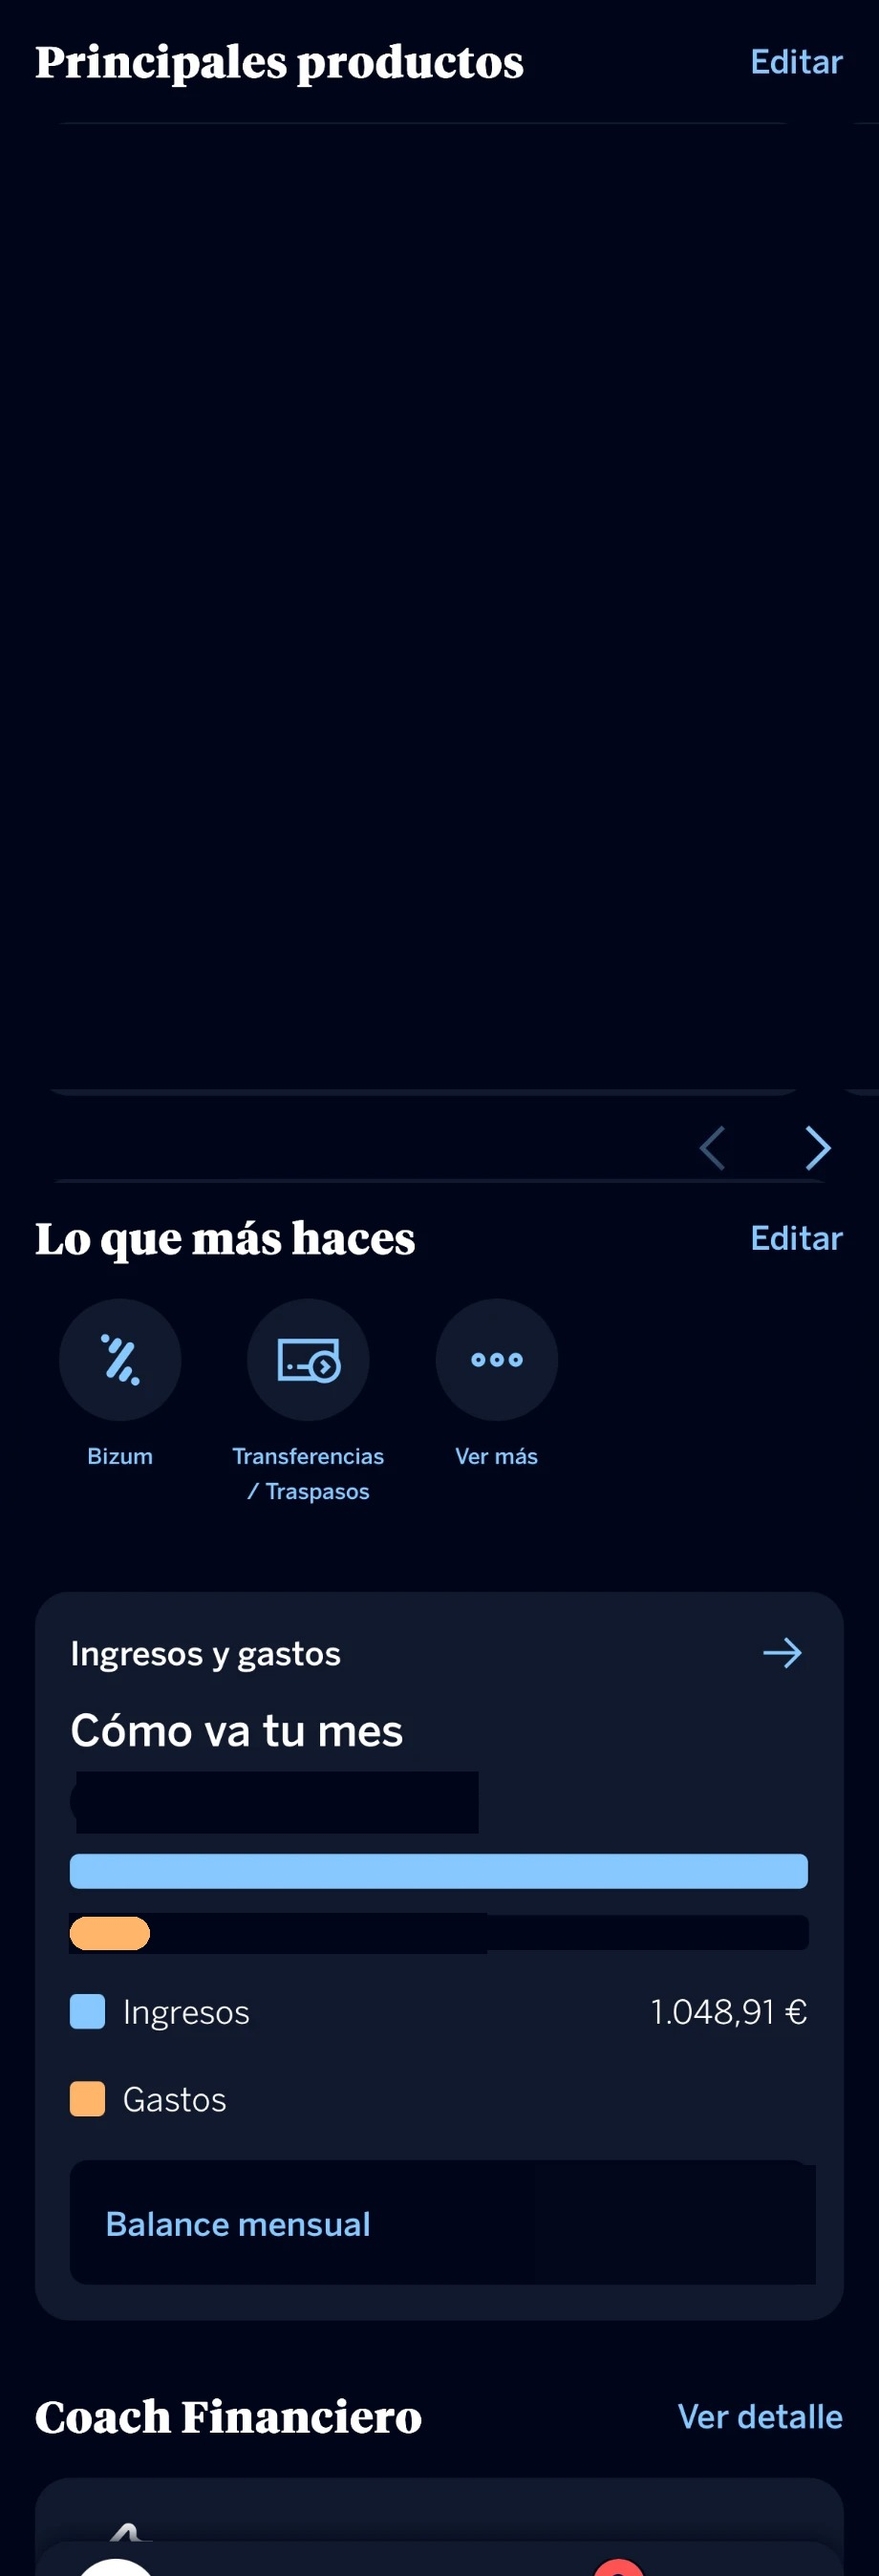
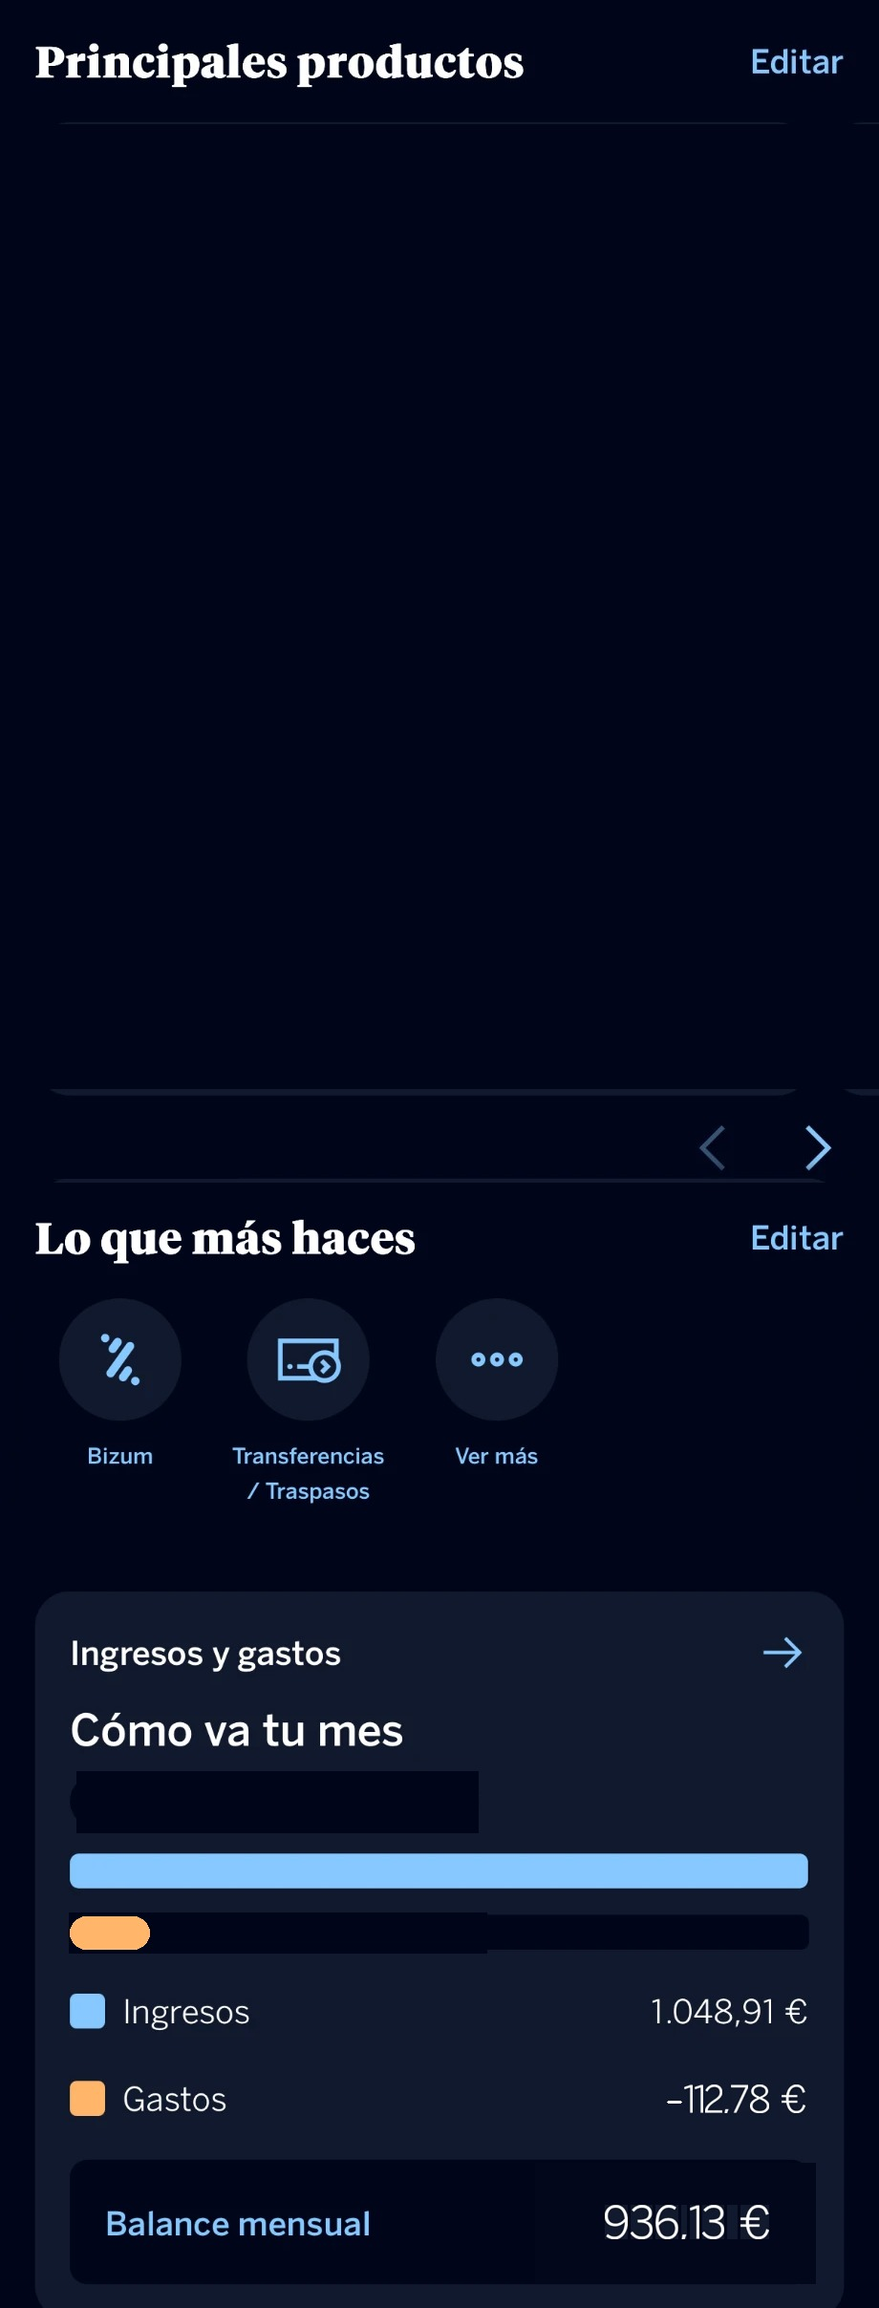
Quitar Coach; gastos/balance con digitos reales (tamano original); periodo limpio (v30)

diff --git a/style.css b/style.css
@@ -16,14 +16,14 @@ html, body {
 /* La foto original va en el fondo raíz. El tamaño y el desplazamiento exactos
    en píxeles los pone el script según la pantalla. */
 html {
-  background: #144866 url("bg.jpg?v=29") 0 0 / 100vw 100vh no-repeat;
+  background: #144866 url("bg.jpg?v=30") 0 0 / 100vw 100vh no-repeat;
 }
 
 /* Modo app nativa (?app=1): foto limpia a pantalla completa y nítida
    (dentro de la app de iOS no hay desenfoque, así que no hacen falta parches) */
 html.app {
   background-color: #022d5a;
-  background-image: url("bg-app.jpg?v=29");
+  background-image: url("bg-app.jpg?v=30");
 }
 html.app .edge {
   display: none;
@@ -337,7 +337,7 @@ body.sheet-open .stage { filter: blur(9px) brightness(0.45); }
   position: fixed;
   inset: 0;
   z-index: 20;
-  background: #0a1a2f url("bg-home.jpg?v=29") center top / 100% 100% no-repeat;
+  background: #0a1a2f url("bg-home.jpg?v=30") center top / 100% 100% no-repeat;
   transform: translateX(100%);
   transition: transform 0.3s cubic-bezier(0.25, 0.8, 0.3, 1);
   visibility: hidden;
@@ -375,13 +375,13 @@ body.sheet-open .stage { filter: blur(9px) brightness(0.45); }
 .ver-head {
   position: absolute; top: 0; left: 0; width: 100%;
   height: calc(485 * var(--p));
-  background: #00051a url("ver-head.jpg?v=29") 0 0 / 100% 100% no-repeat;
+  background: #00051a url("ver-head.jpg?v=30") 0 0 / 100% 100% no-repeat;
   z-index: 4;
 }
 .ver-nav {
   position: absolute; bottom: 0; left: 0; width: 100%;
   height: calc(284 * var(--p));
-  background: #00051a url("ver-nav.jpg?v=29") 0 0 / 100% 100% no-repeat;
+  background: #00051a url("ver-nav.jpg?v=30") 0 0 / 100% 100% no-repeat;
   z-index: 4;
 }
 .ver-scroll {
@@ -393,8 +393,8 @@ body.sheet-open .stage { filter: blur(9px) brightness(0.45); }
 }
 .ver-content {
   position: relative; width: 100%;
-  height: calc(2696 * var(--p));
-  background: #00051a url("ver-content.jpg?v=29") 0 0 / 100% 100% no-repeat;
+  height: calc(2416 * var(--p));
+  background: #00051a url("ver-content.jpg?v=30") 0 0 / 100% 100% no-repeat;
 }
 
 .ver-track {
@@ -426,15 +426,5 @@ body.sheet-open .stage { filter: blur(9px) brightness(0.45); }
 .ig-period {
   position: absolute; top: calc(1864 * var(--p)); left: calc(96 * var(--p));
   color: #e7edf6; font-family: "Lora", Georgia, serif; font-style: italic;
-  font-size: calc(40 * var(--p)); white-space: nowrap;
-}
-.ig-gastos {
-  position: absolute; top: calc(2176 * var(--p)); right: calc(72 * var(--p));
-  color: #fff; font-family: "Libre Franklin", sans-serif; font-weight: 300;
-  font-size: calc(46 * var(--p)); white-space: nowrap;
-}
-.ig-balance {
-  position: absolute; top: calc(2288 * var(--p)); right: calc(74 * var(--p));
-  color: #fff; font-family: "Libre Franklin", sans-serif; font-weight: 300;
-  font-size: calc(58 * var(--p)); white-space: nowrap;
+  font-size: calc(37 * var(--p)); white-space: nowrap;
 }

diff --git a/index.html b/index.html
@@ -12,13 +12,13 @@
   <meta name="apple-mobile-web-app-status-bar-style" content="default" />
   <meta name="apple-mobile-web-app-title" content="BBVA" />
   <meta name="theme-color" content="#144866" />
-  <link rel="manifest" href="manifest.json?v=29" />
+  <link rel="manifest" href="manifest.json?v=30" />
 
   <link rel="preconnect" href="https://fonts.googleapis.com" />
   <link rel="preconnect" href="https://fonts.gstatic.com" crossorigin />
   <link href="https://fonts.googleapis.com/css2?family=Lora:wght@600;700&family=Libre+Franklin:wght@300;400&family=Inter:wght@300;400;500;600&display=swap" rel="stylesheet" />
 
-  <link rel="stylesheet" href="style.css?v=29" />
+  <link rel="stylesheet" href="style.css?v=30" />
 </head>
 <body>
   <!-- Tira lisa arriba: iOS 26 solo deja de desenfocar si el borde superior de la página es de color liso -->
@@ -46,7 +46,7 @@
   <div class="sheet-overlay" id="sheet" aria-hidden="true">
     <div class="sheet-dim" id="sheetDim"></div>
     <section class="sheet" role="dialog" aria-modal="true" aria-label="Iniciar sesión">
-      <img class="sheet-img" src="sheet-bg.jpg?v=29" alt="" draggable="false" />
+      <img class="sheet-img" src="sheet-bg.jpg?v=30" alt="" draggable="false" />
 
       <!-- Campo vivo (encima del de la foto): etiqueta flotante + puntos -->
       <div class="field2" id="field2">
@@ -84,14 +84,12 @@
       <div class="ver-content">
         <!-- carrusel de cuentas -->
         <div class="ver-track" id="verTrack">
-          <section class="ver-card" style="background-image:url('card1.jpg?v=29')"></section>
-          <section class="ver-card" style="background-image:url('card2.jpg?v=29')"></section>
+          <section class="ver-card" style="background-image:url('card1.jpg?v=30')"></section>
+          <section class="ver-card" style="background-image:url('card2.jpg?v=30')"></section>
         </div>
         <div class="ver-pager" id="verPager">1 de 5</div>
-        <!-- Ingresos y gastos: valores editados -->
+        <!-- Periodo editado (los importes van ya en la imagen) -->
         <div class="ig-period">Del 1 octubre al 5 octubre</div>
-        <div class="ig-gastos">-112,78 €</div>
-        <div class="ig-balance">936,13 €</div>
       </div>
     </div>
     <div class="ver-nav"></div>
